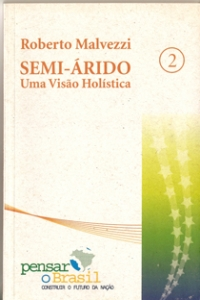
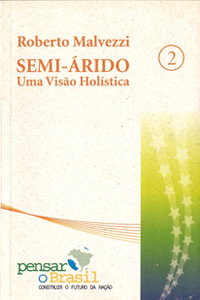
adicao da classe borda_branca_pura e refinamento das imagens do album

diff --git a/controle/Controlador.php b/controle/Controlador.php
@@ -158,7 +158,7 @@ switch ($valorPagina) {
                                           <td align="center">            
                                             <table width="100%">
                                             <tr>
-                                            <td><img src="livros/'.utf8_encode($value->capa).'"></td>
+                                            <td><img src="livros/'.utf8_encode($value->capa).'" class="borda_branca_pura"></td>
                                             <td valign=top><b>'.utf8_encode($value->nome).'</b><br>
                                             <br>'.utf8_encode($value->resumo).'
                                             <br>'.utf8_encode($value->caracteristicas).'<br>
